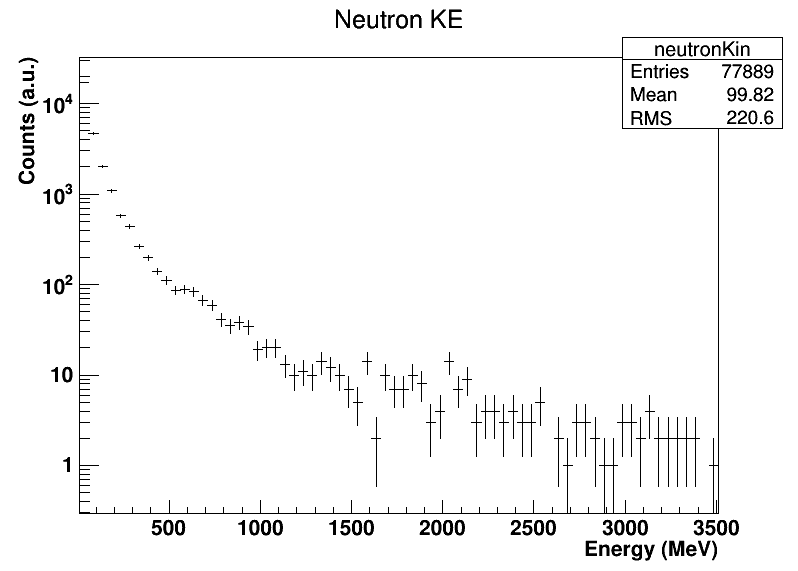
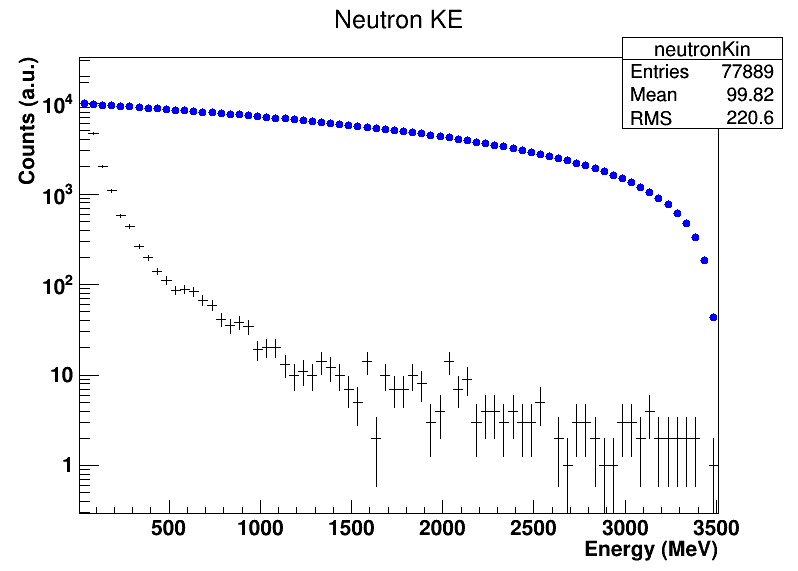
Updated neutron KE ROOT macro with test fit function

diff --git a/analysis/neutron_energydist.cpp b/analysis/neutron_energydist.cpp
@@ -1,15 +1,15 @@
 #include <iostream>
 #include <TFile.h>
+#include <TF1.h>
+#include <TGraph.h>
 #include <TH1F.h>
 #include <TCanvas.h>
 #include <TAxis.h>
 
-void neutron_energydist(const char* fi) {
-    TFile *file = TFile::Open(fi); // Open the ROOT file
-    
-    if (file && !file->IsZombie()) {
+void neutron_energydist(TFile* fi) {
+    if (fi && !fi->IsZombie()) {
         // Retrieve the histogram from the ROOT file
-        TH1F *hist = (TH1F*)file->Get("neutronKin");
+        TH1F *hist = (TH1F*)fi->Get("neutronKin");
         
         if (hist) {
             // Modify the axis titles
@@ -22,15 +22,30 @@ void neutron_energydist(const char* fi) {
             TCanvas *canvas = new TCanvas("canvas", "Canvas for Plotting", 800, 600);
             hist->Draw();
 			canvas->SetLogy();
-            
-            // You can save the canvas as an image (optional)
-            canvas->SaveAs("neutron_KE.png");
+
+			int nBins = hist->GetNbinsX();
+			const TArrayD *xaxis = hist->GetXaxis()->GetXbins();
+
+			TF1 *func = new TF1("func", "(-10000/3500) * x + 10000",
+								hist->GetXaxis()->GetXmin(), hist->GetXaxis()->GetXmax());
+
+			TGraph *graph = new TGraph();
+
+			for (int i = 1; i <= nBins; ++i) {
+				double binCenter = hist->GetBinCenter(i);
+				double funcValue = func->Eval(binCenter);
+				graph->SetPoint(i - 1, binCenter, funcValue);
+			}
+
+			graph->SetMarkerStyle(20);
+			graph->SetMarkerColor(kBlue);
+			graph->Draw("P SAME");  // Overlay function values as points
+
+			canvas->Update();
+			canvas->SaveAs("neutron_KE.png");
         } else {
             std::cerr << "Histogram not found in the file." << std::endl;
         }
-
-        // Close the ROOT file
-        file->Close();
     } else {
         std::cerr << "File could not be opened." << std::endl;
     }
